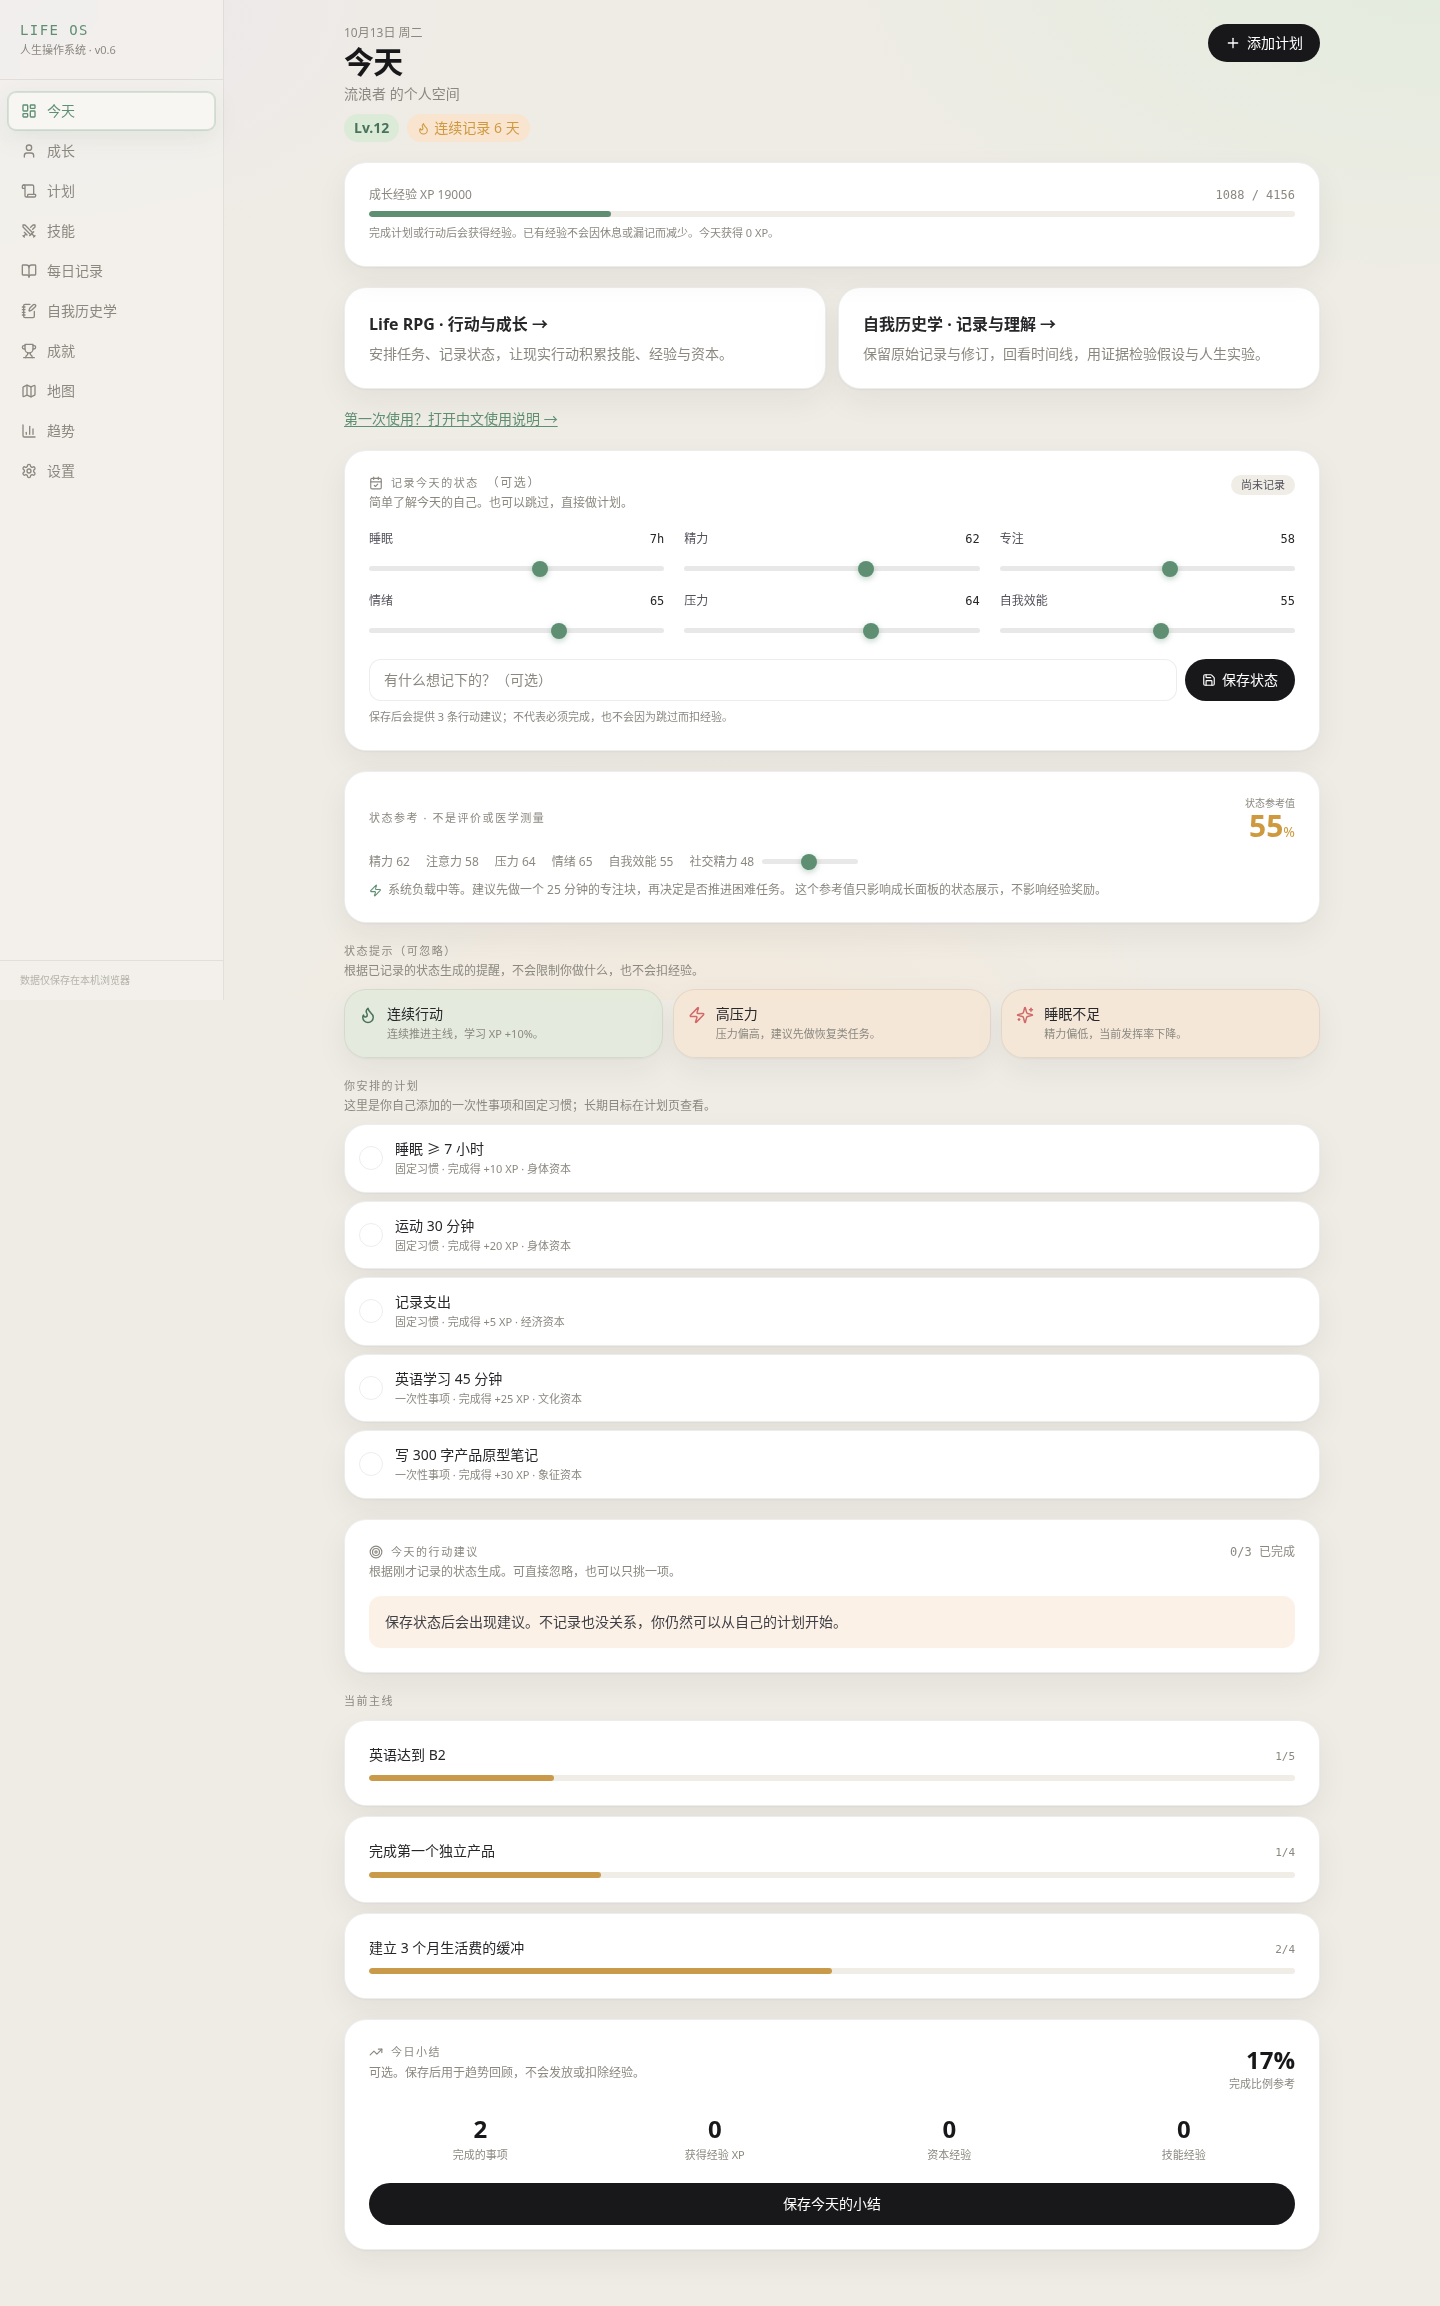
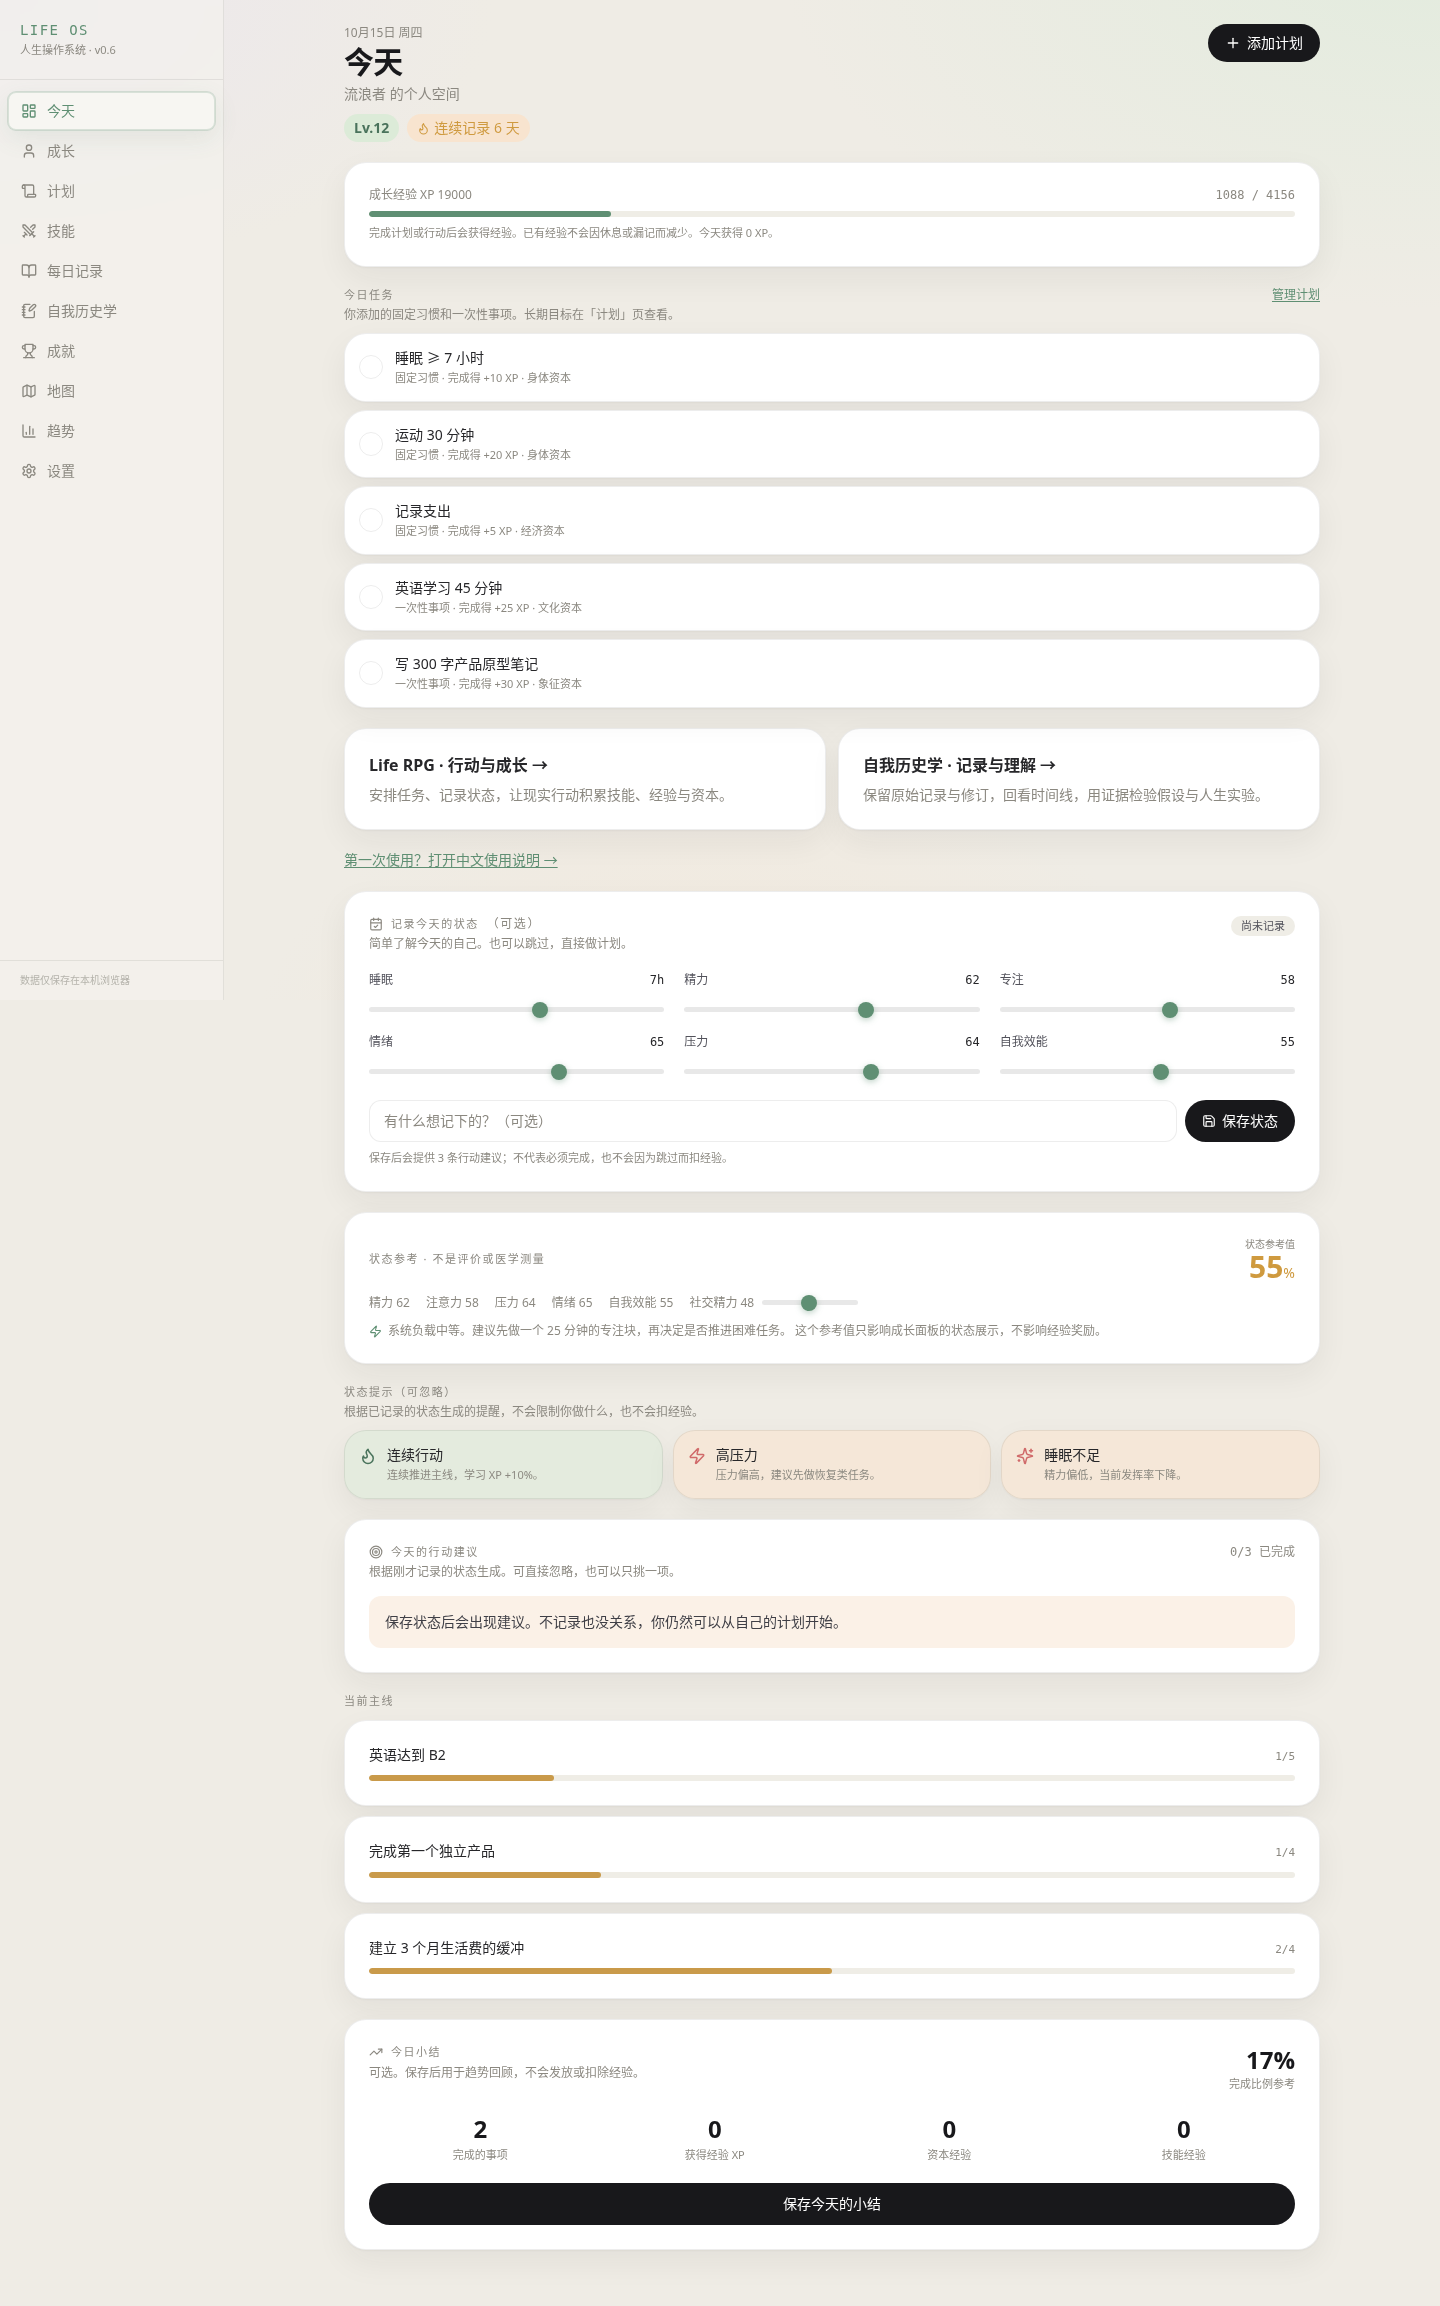
fix(ui): put today's tasks at the top of home

Changed region(s): [[0.2188, 0.1249, 0.9375, 0.6557]]

diff --git a/src/pages/Dashboard.tsx b/src/pages/Dashboard.tsx
@@ -77,6 +77,46 @@ export default function Dashboard() {
         </div>
       </div>
 
+      <section className="rise" style={{ animationDelay: '90ms' }}>
+        <div className="flex items-center justify-between gap-3 mb-1">
+          <h2 className="label">今日任务</h2>
+          <Link to="/quests" className="text-xs text-accent underline underline-offset-2">管理计划</Link>
+        </div>
+        <p className="text-xs text-muted mb-2.5">你添加的固定习惯和一次性事项。长期目标在「计划」页查看。</p>
+        <div className="space-y-2">
+          {todayTasks.length === 0 && (
+            <div className="card-pad text-sm text-muted text-center">
+              今天没有待办。可以添加一项计划，也可以什么都不安排。
+            </div>
+          )}
+          {todayTasks.map(({ kind, q }) => {
+            const isDaily = kind === 'daily'
+            const done = q.kind === 'daily' ? q.lastCompletedDate === today : q.completed
+            return (
+              <div key={q.id} className="card p-3.5 flex items-center gap-3">
+                <button
+                  onClick={() => (isDaily ? s.completeDailyQuest(q.id) : s.completeSideQuest(q.id))}
+                  disabled={done}
+                  aria-label={`${done ? '已完成' : '完成'}：${q.title}`}
+                  className={`w-6 h-6 rounded-full border flex items-center justify-center shrink-0 transition-colors ${
+                    done ? 'bg-accent border-accent text-white' : 'border-line hover:border-accent text-transparent'
+                  }`}
+                >
+                  <Check size={14} />
+                </button>
+                <div className="flex-1 min-w-0">
+                  <div className={`text-sm ${done ? 'line-through text-muted' : 'text-zinc-800'}`}>{q.title}</div>
+                  <div className="text-[11px] text-muted mt-0.5">
+                    {isDaily ? '固定习惯' : '一次性事项'} · 完成得 +{q.xpReward} XP
+                    {'capitalKey' in q && q.capitalKey ? ` · ${capitalLabel(q.capitalKey, s.capitals)}` : ''}
+                  </div>
+                </div>
+              </div>
+            )
+          })}
+        </div>
+      </section>
+
       <section aria-label="Life OS 模块" className="grid gap-3 sm:grid-cols-2">
         <Link to="/quests" className="card-pad block hover:border-accent/40">
           <h2 className="font-semibold text-zinc-800">Life RPG · 行动与成长 →</h2>
@@ -145,46 +185,6 @@ export default function Dashboard() {
               </div>
             </div>
           ))}
-        </div>
-      </section>
-
-      <section className="rise" style={{ animationDelay: '240ms' }}>
-        <div className="flex items-center justify-between gap-3 mb-1">
-          <h2 className="label">今日任务</h2>
-          <Link to="/quests" className="text-xs text-accent underline underline-offset-2">管理计划</Link>
-        </div>
-        <p className="text-xs text-muted mb-2.5">你添加的固定习惯和一次性事项。长期目标在「计划」页查看。</p>
-        <div className="space-y-2">
-          {todayTasks.length === 0 && (
-            <div className="card-pad text-sm text-muted text-center">
-              今天没有待办。可以添加一项计划，也可以什么都不安排。
-            </div>
-          )}
-          {todayTasks.map(({ kind, q }) => {
-            const isDaily = kind === 'daily'
-            const done = q.kind === 'daily' ? q.lastCompletedDate === today : q.completed
-            return (
-              <div key={q.id} className="card p-3.5 flex items-center gap-3">
-                <button
-                  onClick={() => (isDaily ? s.completeDailyQuest(q.id) : s.completeSideQuest(q.id))}
-                  disabled={done}
-                  aria-label={`${done ? '已完成' : '完成'}：${q.title}`}
-                  className={`w-6 h-6 rounded-full border flex items-center justify-center shrink-0 transition-colors ${
-                    done ? 'bg-accent border-accent text-white' : 'border-line hover:border-accent text-transparent'
-                  }`}
-                >
-                  <Check size={14} />
-                </button>
-                <div className="flex-1 min-w-0">
-                  <div className={`text-sm ${done ? 'line-through text-muted' : 'text-zinc-800'}`}>{q.title}</div>
-                  <div className="text-[11px] text-muted mt-0.5">
-                    {isDaily ? '固定习惯' : '一次性事项'} · 完成得 +{q.xpReward} XP
-                    {'capitalKey' in q && q.capitalKey ? ` · ${capitalLabel(q.capitalKey, s.capitals)}` : ''}
-                  </div>
-                </div>
-              </div>
-            )
-          })}
         </div>
       </section>
 

diff --git a/src/pages/Guide.tsx b/src/pages/Guide.tsx
@@ -12,11 +12,11 @@ export default function Guide() {
 
       <section className="card-pad space-y-4">
         <h2 className="text-base font-semibold text-zinc-800">最简单的日常用法</h2>
-        <Step number="1" title="可选：记一下今天的状态">
-          在首页调整睡眠、精力、专注等滑块并点「保存状态」。这只是给自己看的记录。保存后会生成三条行动建议；不想填就跳过。
+        <Step number="1" title="先看今天要做的事">
+          首页上方的「今日任务」是你自己添加的固定习惯和一次性事项。做完一项就点旁边的圆圈；没有待办时，可以去「计划」添加，也可以留空。
         </Step>
-        <Step number="2" title="选一项想做的事">
-          首页的「今日任务」来自你自己添加的固定习惯和一次性事项；「行动建议」由状态生成。两者分开保存，你可以挑其中一项完成，也可以都不做。
+        <Step number="2" title="状态记录是可选的">
+          想记今天的睡眠、精力、专注等状态时，再填写首页的状态卡片。保存后会出现三条行动建议；它们和你安排的任务分开，你可以忽略。
         </Step>
         <Step number="3" title="做完后点勾选">
           完成计划或行动建议时会按当前规则增加经验；同一项不能通过重复点击反复领奖励。获得的经验不会因休息或连续记录中断而减少。

diff --git a/src/test/navigation.test.tsx b/src/test/navigation.test.tsx
@@ -38,6 +38,7 @@ describe('Life OS module navigation', () => {
     expect(host.querySelector('nav[aria-label="移动主导航"] a[href="/"]')?.textContent).toContain('今天')
     expect(Array.from(host.querySelectorAll('h2')).some((heading) => heading.textContent === '今日任务')).toBe(true)
     expect(Array.from(host.querySelectorAll('a[href="/quests"]')).some((link) => link.textContent === '管理计划')).toBe(true)
+    expect(host.querySelector('h2')?.textContent).toBe('今日任务')
   })
 
   it('shows the Chinese getting-started guide before an RPG profile exists', async () => {

diff --git a/scripts/browser-smoke.py b/scripts/browser-smoke.py
@@ -117,7 +117,7 @@ with tempfile.TemporaryDirectory(prefix='life-os-smoke-') as directory:
                 frame.locator('#entry-composer').fill(new_text)
                 frame.locator('[data-action="save-entry"]').click()
                 expect(frame.locator('#save-indicator')).to_contain_text('原文与分析已分别保存')
-                frame.locator('[data-action="view-entry"]').first.click()
+                frame.locator('.entry-mini').filter(has_text=new_text).get_by_role('button', name='打开证据 →').click()
                 frame.locator('#revision-text').fill(REVISION)
                 frame.get_by_role('button', name='保存新版本').click()
                 expect(frame.locator('#app-dialog')).not_to_be_visible()
@@ -128,7 +128,7 @@ with tempfile.TemporaryDirectory(prefix='life-os-smoke-') as directory:
                 assert next(e for e in after['entries'] if e['id'] == original_entry['id']) == original_entry
                 assert rpg_state(page) == rpg_before
                 view(frame, mobile, 'timeline')
-                expect(frame.locator('.timeline-card').first).to_contain_text(REVISION)
+                expect(frame.locator('.timeline-card').filter(has_text=REVISION)).to_be_visible()
                 page.screenshot(path=str(SHOTS / f'{name}-timeline.png'), full_page=True)
                 # Parent route history, refresh, exit/re-entry all keep stored data.
                 nav(page, mobile, '今天')

diff --git a/docs/user-guide-zh.md b/docs/user-guide-zh.md
@@ -4,9 +4,9 @@ Life OS 是给个人使用的记录与行动工具，不是打卡考核。可以
 
 ## 从今天开始
 
-1. 首页的「记录今天的状态」是可选的。保存后，Life RPG 按现有规则生成三条行动建议；跳过状态记录也可以直接做计划。
-2. 首页的「今日任务」包含自己安排的固定习惯和一次性事项。「今天的行动建议」由当前状态生成；它们分开展示，不会互相自动复制。
-3. 做完后点勾选。奖励沿用现有 XP、资本经验和技能经验规则。每个行动只按现有规则完成一次；界面展示的是完成后的奖励。
+1. 首页上方的「今日任务」包含自己安排的固定习惯和一次性事项。做完一项就点旁边的圆圈；没有待办时，可以去「计划」添加，也可以留空。
+2. 状态记录是可选的。保存后，Life RPG 按现有规则生成三条行动建议；它们和「今日任务」分开展示，不会互相自动复制，也可以忽略。
+3. 完成事项后按现有规则领取 XP、资本经验和技能经验；每个行动只会完成一次。休息或漏记不会扣经验。
 4. 「今日小结」是可选的。保存只记录趋势数据，不会发放或扣减经验。
 5. 想写文字时，短的每日回顾放在「每日记录」；多条原始记录、时间线和修订历史放在「自我历史学」。
 
